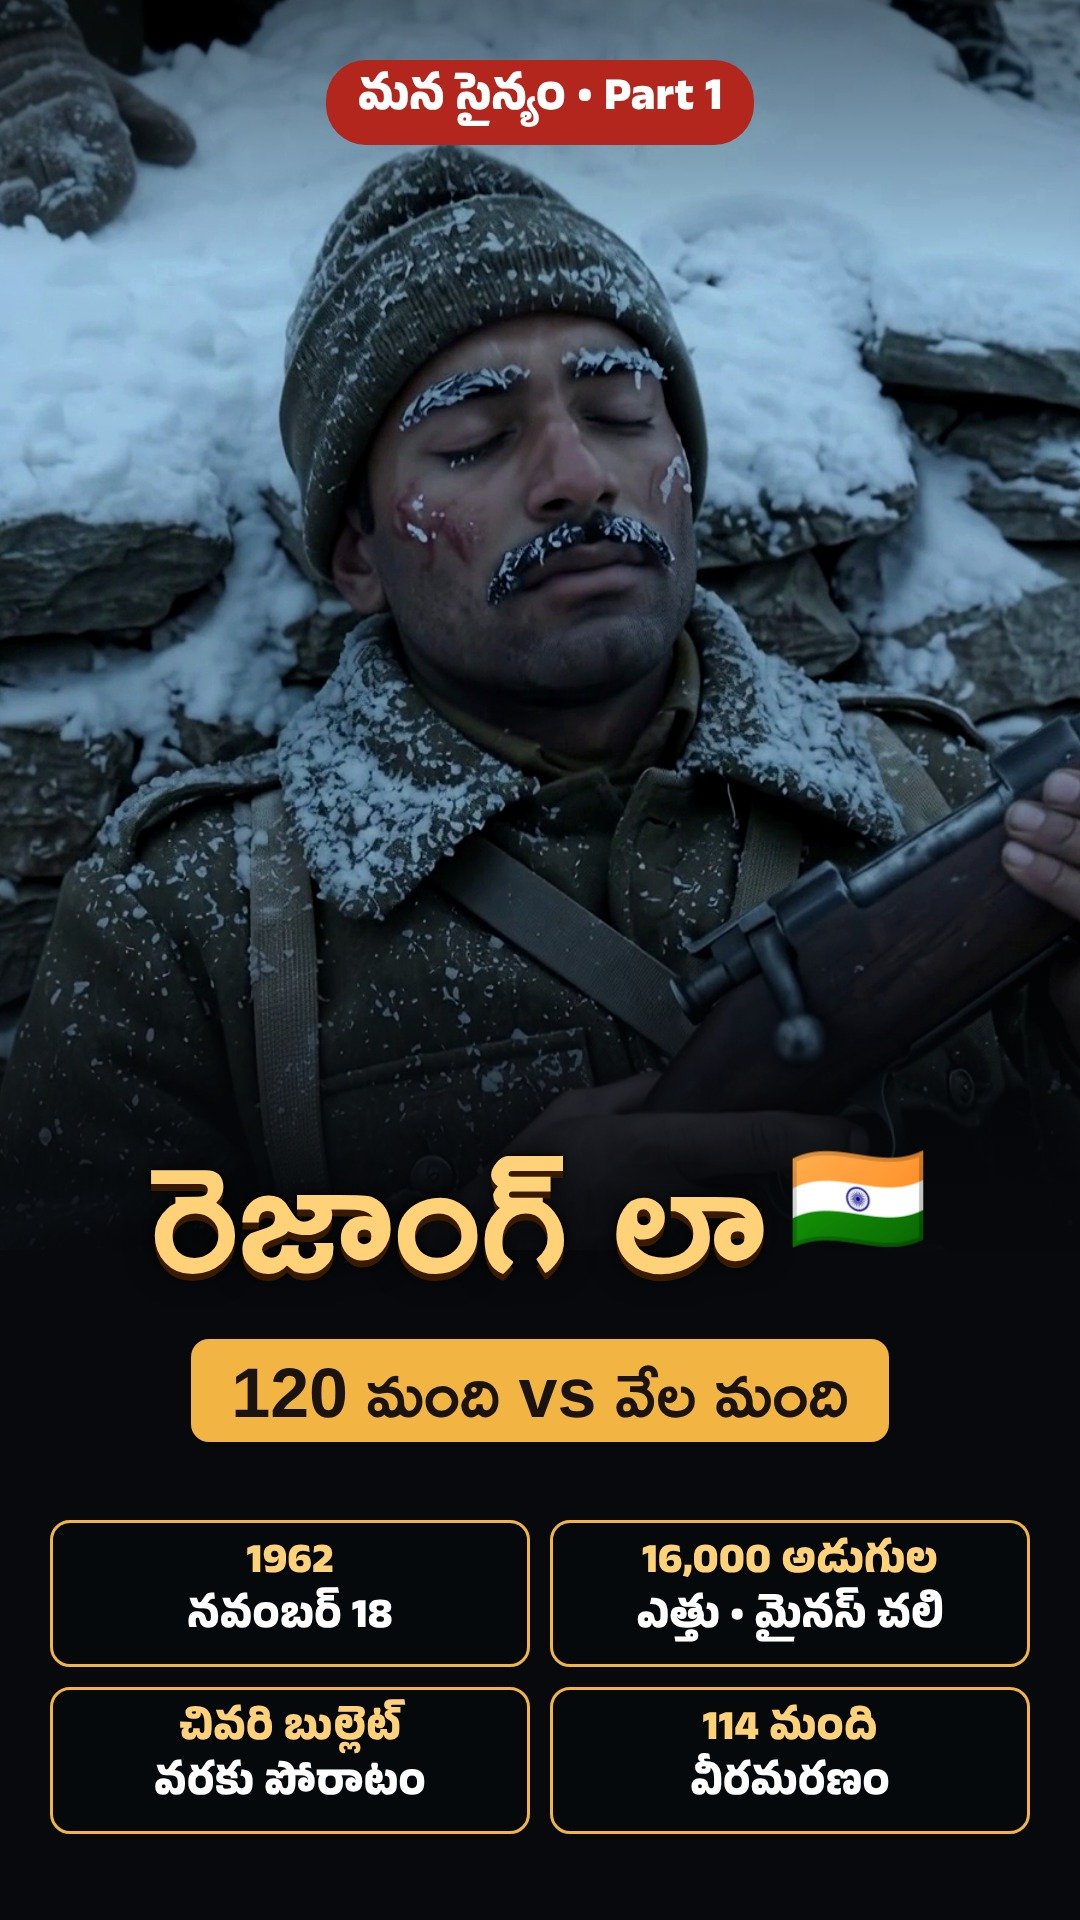
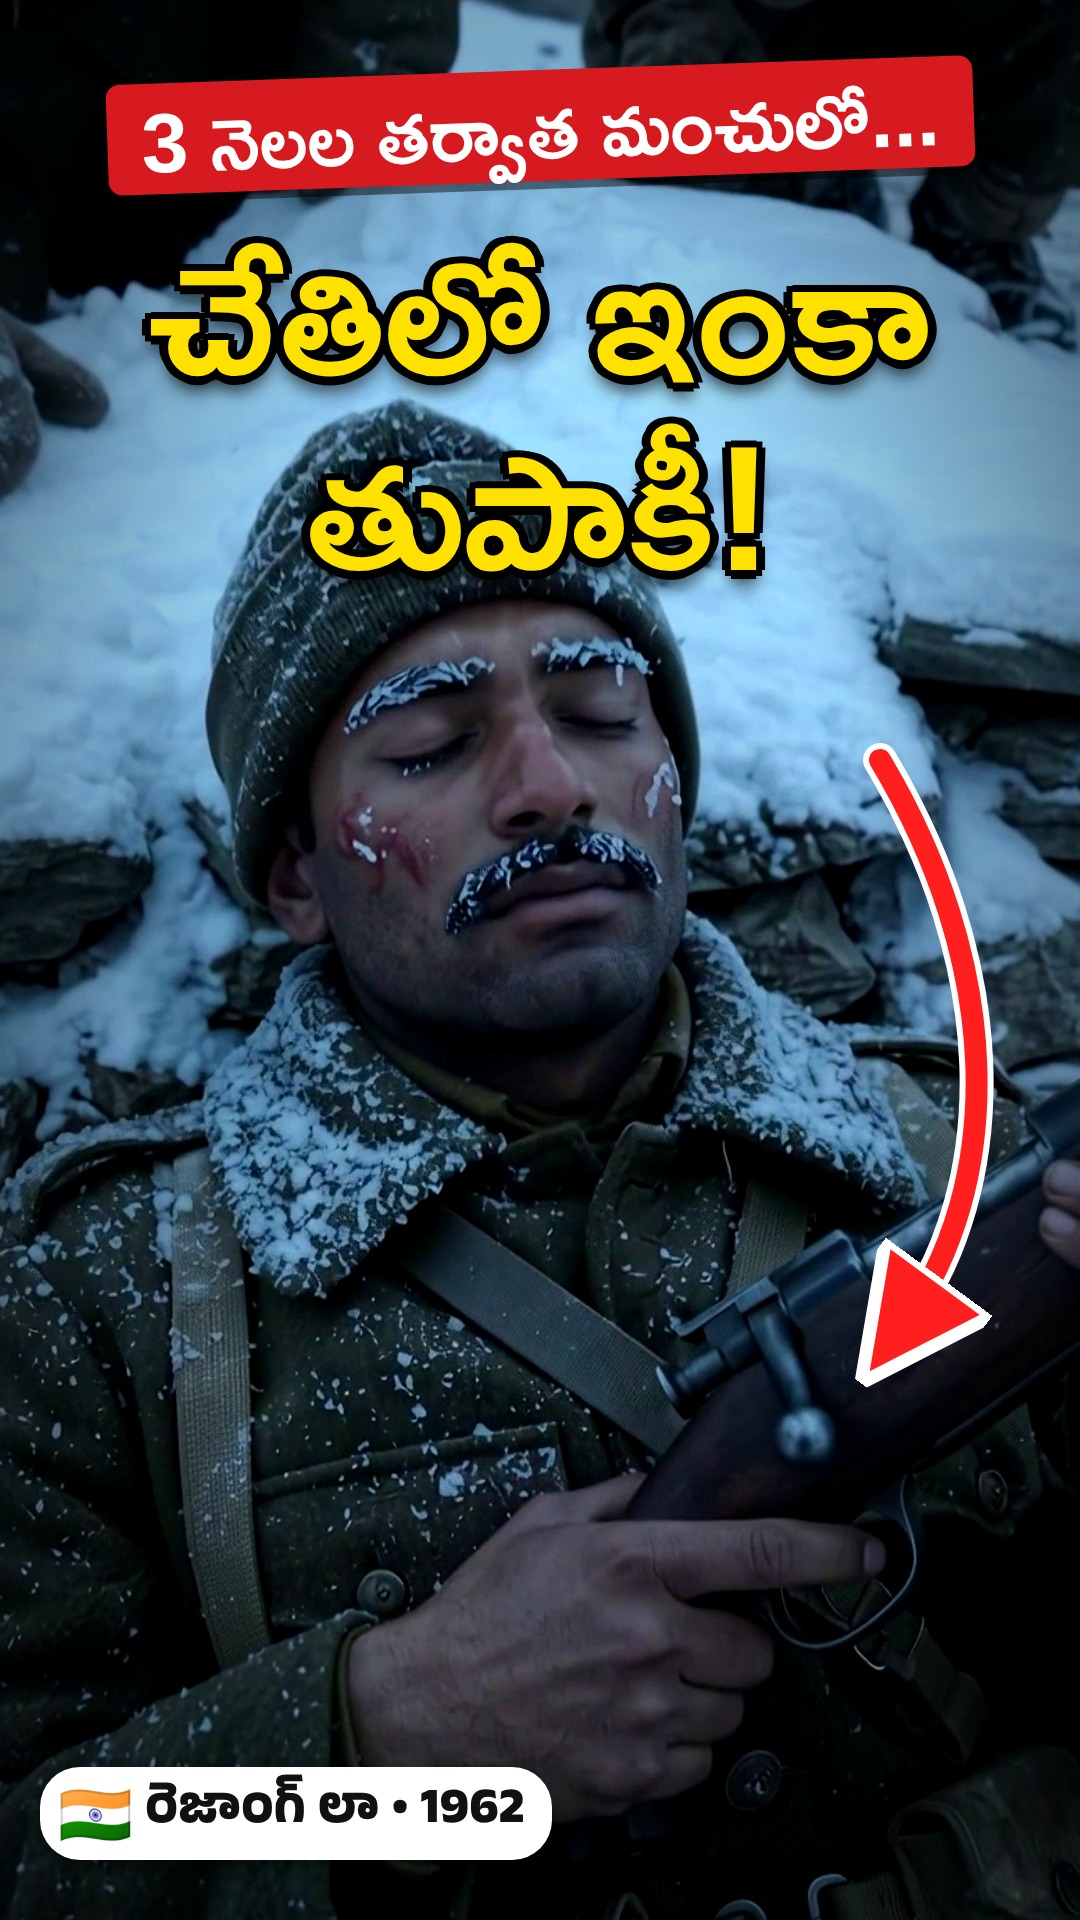
Rezang La: bolder clickbait-style cover and thumbnail (big outlined text, arrow, flag badge)
Claude-Session: https://claude.ai/code/session_017x8KaNM3focoJEkh1kSqmn

diff --git a/vishayam-entante-shorts/source/rezangla/rl2.html b/vishayam-entante-shorts/source/rezangla/rl2.html
@@ -1,0 +1,53 @@
+<!doctype html>
+<html><head><meta charset="utf-8">
+<link href="https://fonts.googleapis.com/css2?family=Ramabhadra&family=Anek+Telugu:wght@800&display=swap" rel="stylesheet">
+<style>
+*{margin:0;padding:0;box-sizing:border-box}
+body{background:#222}
+.t{position:relative;overflow:hidden;font-family:'Ramabhadra',sans-serif;background:#000}
+.bg{position:absolute;inset:0;background-size:cover;filter:saturate(1.35) contrast(1.18) brightness(1.08)}
+.vig{position:absolute;inset:0;background:radial-gradient(ellipse at 50% 55%,rgba(0,0,0,0) 45%,rgba(0,0,0,.55) 100%)}
+.l1{display:inline-block;background:#d71920;color:#fff;border-radius:14px;transform:rotate(-2deg);box-shadow:0 8px 0 rgba(0,0,0,.45);line-height:1.15}
+.l2{color:#ffe100;-webkit-text-stroke:0;paint-order:stroke fill;text-shadow:
+  0 0 0 #000,6px 6px 0 #000,-6px 6px 0 #000,6px -6px 0 #000,-6px -6px 0 #000,0 9px 0 #000,0 -7px 0 #000,9px 0 0 #000,-9px 0 0 #000,0 14px 18px rgba(0,0,0,.8);line-height:1.1}
+.badge{position:absolute;display:flex;align-items:center;gap:10px;background:#fff;color:#111;font-family:'Anek Telugu';font-weight:800;border-radius:40px;box-shadow:0 6px 14px rgba(0,0,0,.5)}
+.badge img{display:block}
+svg{position:absolute;overflow:visible}
+/* vertical */
+#v{width:1080px;height:1920px}
+#v .bg{background-image:url(face.png);background-position:58% 70%;background-size:1500px auto}
+#v .txt{position:absolute;top:70px;left:30px;right:30px;text-align:center}
+#v .l1{font-size:84px;padding:10px 34px 4px}
+#v .l2{font-size:178px;margin-top:30px}
+#v .badge{left:40px;bottom:60px;font-size:50px;padding:10px 28px 8px 16px}
+#v .badge img{height:64px}
+/* horizontal */
+#h{width:1280px;height:720px}
+#h .bgblur{position:absolute;inset:0;background:url(face.png) center 40%/1400px auto;filter:blur(18px) brightness(.45) saturate(1.2)}
+#h .panel{position:absolute;left:0;top:0;bottom:0;width:640px;background:url(face.png) -60px -400px/780px auto;filter:saturate(1.35) contrast(1.18) brightness(1.08);box-shadow:20px 0 40px rgba(0,0,0,.6)}
+#h .txt{position:absolute;top:40px;left:650px;right:20px;text-align:center}
+#h .l1{font-size:58px;padding:8px 26px 2px}
+#h .l2{font-size:118px;margin-top:26px}
+#h .badge{right:28px;bottom:30px;font-size:38px;padding:8px 22px 6px 12px}
+#h .badge img{height:50px}
+</style></head><body>
+<div id="v" class="t"><div class="bg"></div><div class="vig"></div>
+  <div class="txt"><div class="l1">3 నెలల తర్వాత మంచులో...</div><div class="l2">చేతిలో ఇంకా<br>తుపాకీ!</div></div>
+  <svg width="1080" height="1920" style="left:0;top:0">
+    <defs><marker id="ah" markerWidth="6" markerHeight="6" refX="3" refY="3" orient="auto"><path d="M0,0 L6,3 L0,6 z" fill="#ff1f1f" stroke="#fff" stroke-width=".6"/></marker></defs>
+    <path d="M 880 760 C 1000 960, 1010 1180, 900 1330" fill="none" stroke="#fff" stroke-width="34" stroke-linecap="round"/>
+    <path d="M 880 760 C 1000 960, 1010 1180, 900 1330" fill="none" stroke="#ff1f1f" stroke-width="22" stroke-linecap="round" marker-end="url(#ah)"/>
+  </svg>
+  <div class="badge"><img src="flag_emoji.png">రెజాంగ్ లా • 1962</div>
+</div>
+<br>
+<div id="h" class="t"><div class="bgblur"></div><div class="panel"></div>
+  <div class="txt"><div class="l1">3 నెలల తర్వాత మంచులో...</div><div class="l2">చేతిలో ఇంకా<br>తుపాకీ!</div></div>
+  <svg width="1280" height="720" style="left:0;top:0">
+    <defs><marker id="ah2" markerWidth="6" markerHeight="6" refX="3" refY="3" orient="auto"><path d="M0,0 L6,3 L0,6 z" fill="#ff1f1f" stroke="#fff" stroke-width=".6"/></marker></defs>
+    <path d="M 760 520 C 720 600, 660 640, 590 600" fill="none" stroke="#fff" stroke-width="26" stroke-linecap="round"/>
+    <path d="M 760 520 C 720 600, 660 640, 590 600" fill="none" stroke="#ff1f1f" stroke-width="16" stroke-linecap="round" marker-end="url(#ah2)"/>
+  </svg>
+  <div class="badge"><img src="flag_emoji.png">రెజాంగ్ లా • 1962</div>
+</div>
+</body></html>

diff --git a/vishayam-entante-shorts/source/rezangla/render2.js b/vishayam-entante-shorts/source/rezangla/render2.js
@@ -1,0 +1,5 @@
+const { chromium } = require('playwright'); const path=require('path');
+(async()=>{const b=await chromium.launch();const p=await b.newPage({viewport:{width:1400,height:2800}});
+await p.goto('file://'+path.join(__dirname,'rl2.html'));await p.evaluate(()=>document.fonts.ready);await p.waitForTimeout(800);
+await (await p.$('#v')).screenshot({path:process.argv[2]+'/v2_cover.png'});
+await (await p.$('#h')).screenshot({path:process.argv[2]+'/v2_thumb.png'});await b.close();})();
